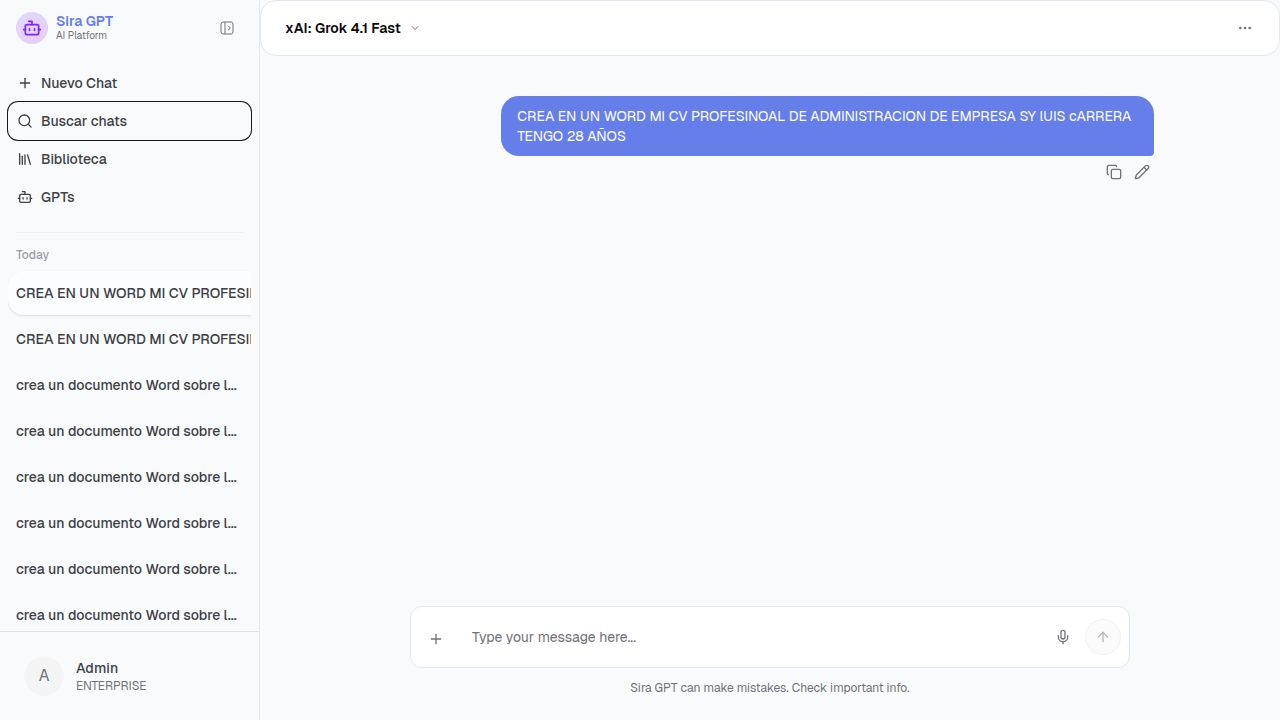
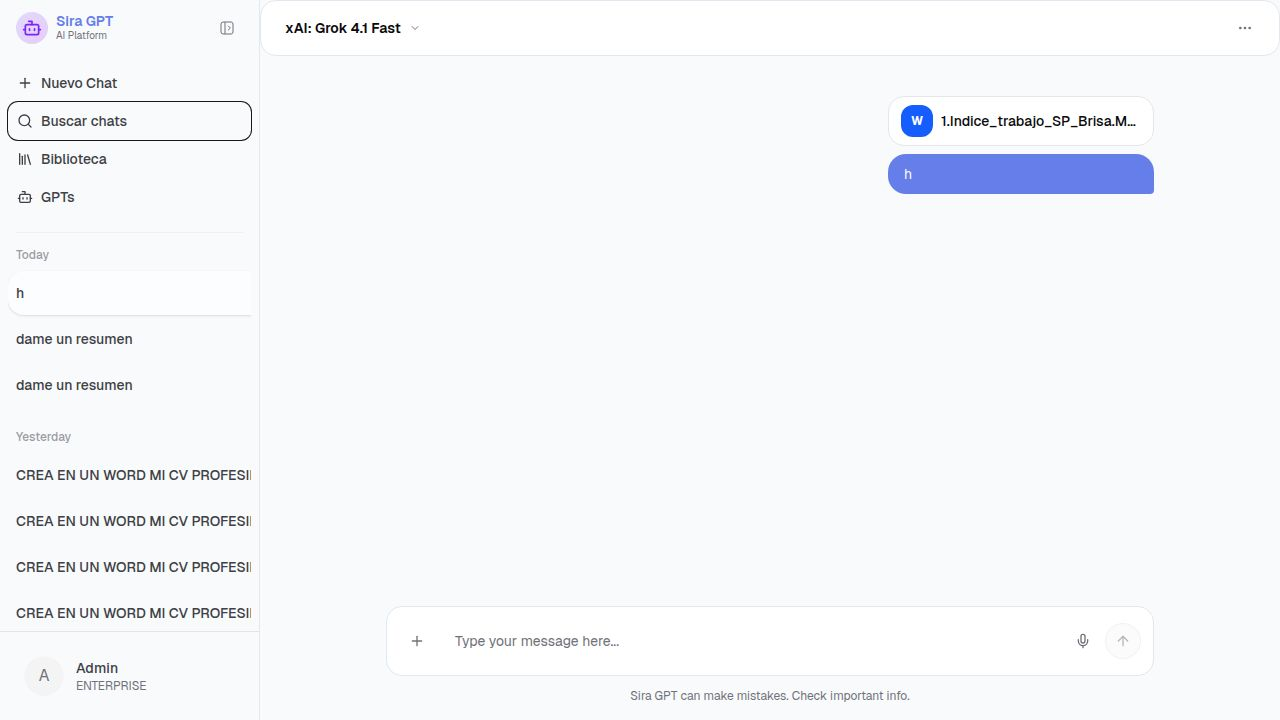
Improve how files and messages are displayed in the chat
Update the chat interface to show attachments before message content and add specific icons for file types.

Replit-Commit-Author: Agent
Replit-Commit-Session-Id: 5e246c44-b29b-499b-bcd8-39220059979d
Replit-Commit-Checkpoint-Type: full_checkpoint
Replit-Commit-Event-Id: 8b694a63-d60c-4257-a72c-1bfd70e533d4
Replit-Commit-Screenshot-Url: https://storage.googleapis.com/screenshot-production-us-central1/c8de8182-93b8-40c0-96f1-23c96d638a68/5e246c44-b29b-499b-bcd8-39220059979d/CwJJk8b
Replit-Helium-Checkpoint-Created: true

diff --git a/client/src/components/chat-interface.tsx b/client/src/components/chat-interface.tsx
@@ -1948,26 +1948,44 @@ export function ChatInterface({
                           </div>
                         ) : (
                           <div className="group">
-                            <div className="bg-muted/80 text-foreground px-4 py-2.5 rounded-2xl text-sm whitespace-pre-wrap">
-                              {msg.content}
-                            </div>
                             {msg.attachments && msg.attachments.length > 0 && (
-                              <div className="flex flex-wrap gap-2 mt-1">
+                              <div className="flex flex-wrap gap-2 mb-2 justify-end">
                                 {msg.attachments.map((att, i) => (
                                   att.type === "image" && att.imageUrl ? (
-                                    <img 
-                                      key={i} 
-                                      src={att.imageUrl} 
-                                      alt={att.name} 
-                                      className="max-w-[200px] max-h-[150px] rounded-lg object-cover border border-border/50"
-                                    />
+                                    <div key={i} className="relative max-w-[280px] rounded-xl overflow-hidden border border-gray-200 dark:border-gray-700">
+                                      <img 
+                                        src={att.imageUrl} 
+                                        alt={att.name} 
+                                        className="w-full h-auto max-h-[200px] object-cover"
+                                      />
+                                    </div>
                                   ) : (
-                                    <div key={i} className="flex items-center gap-2 px-3 py-1.5 bg-muted/50 rounded-lg text-xs">
-                                      <FileIcon className="h-3.5 w-3.5 text-muted-foreground" />
-                                      <span className="text-muted-foreground">{att.name}</span>
+                                    <div
+                                      key={i}
+                                      className="flex items-center gap-2 px-3 py-2 rounded-xl text-sm border bg-white dark:bg-gray-800 border-gray-200 dark:border-gray-700"
+                                    >
+                                      <div className={cn(
+                                        "flex items-center justify-center w-8 h-8 rounded-lg",
+                                        att.type === "word" ? "bg-blue-600" :
+                                        att.type === "excel" ? "bg-green-600" :
+                                        att.type === "ppt" ? "bg-orange-500" :
+                                        "bg-gray-500"
+                                      )}>
+                                        <span className="text-white text-xs font-bold">
+                                          {att.type === "word" ? "W" :
+                                           att.type === "excel" ? "X" :
+                                           att.type === "ppt" ? "P" : "F"}
+                                        </span>
+                                      </div>
+                                      <span className="max-w-[200px] truncate font-medium">{att.name}</span>
                                     </div>
                                   )
                                 ))}
+                              </div>
+                            )}
+                            {msg.content && (
+                              <div className="liquid-message-user px-4 py-2.5 text-sm break-words">
+                                {msg.content}
                               </div>
                             )}
                           </div>
